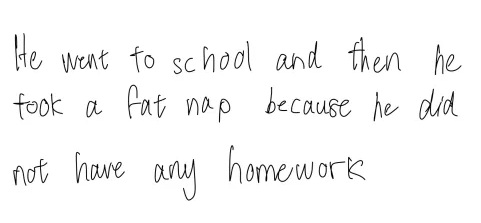
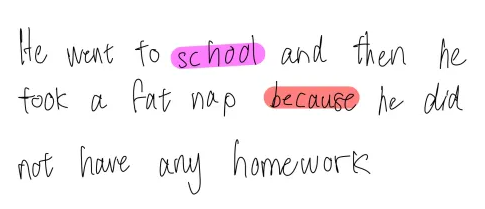
color code works

diff --git a/Model3/scripts/demo.py b/Model3/scripts/demo.py
@@ -21,7 +21,7 @@ with open('output.txt', 'w') as file:
             file.write(f'Reading file {img_filename} with decoder {decoder}\n')
 
             # read text
-            img = cv2.imread(img_filename, cv2.IMREAD_GRAYSCALE)
+            img = cv2.imread(img_filename)
             scale = sample_config.get(img_filename.basename(), {}).get('scale', 1)
             margin = sample_config.get(img_filename.basename(), {}).get('margin', 0)
             read_lines = read_page(img,
